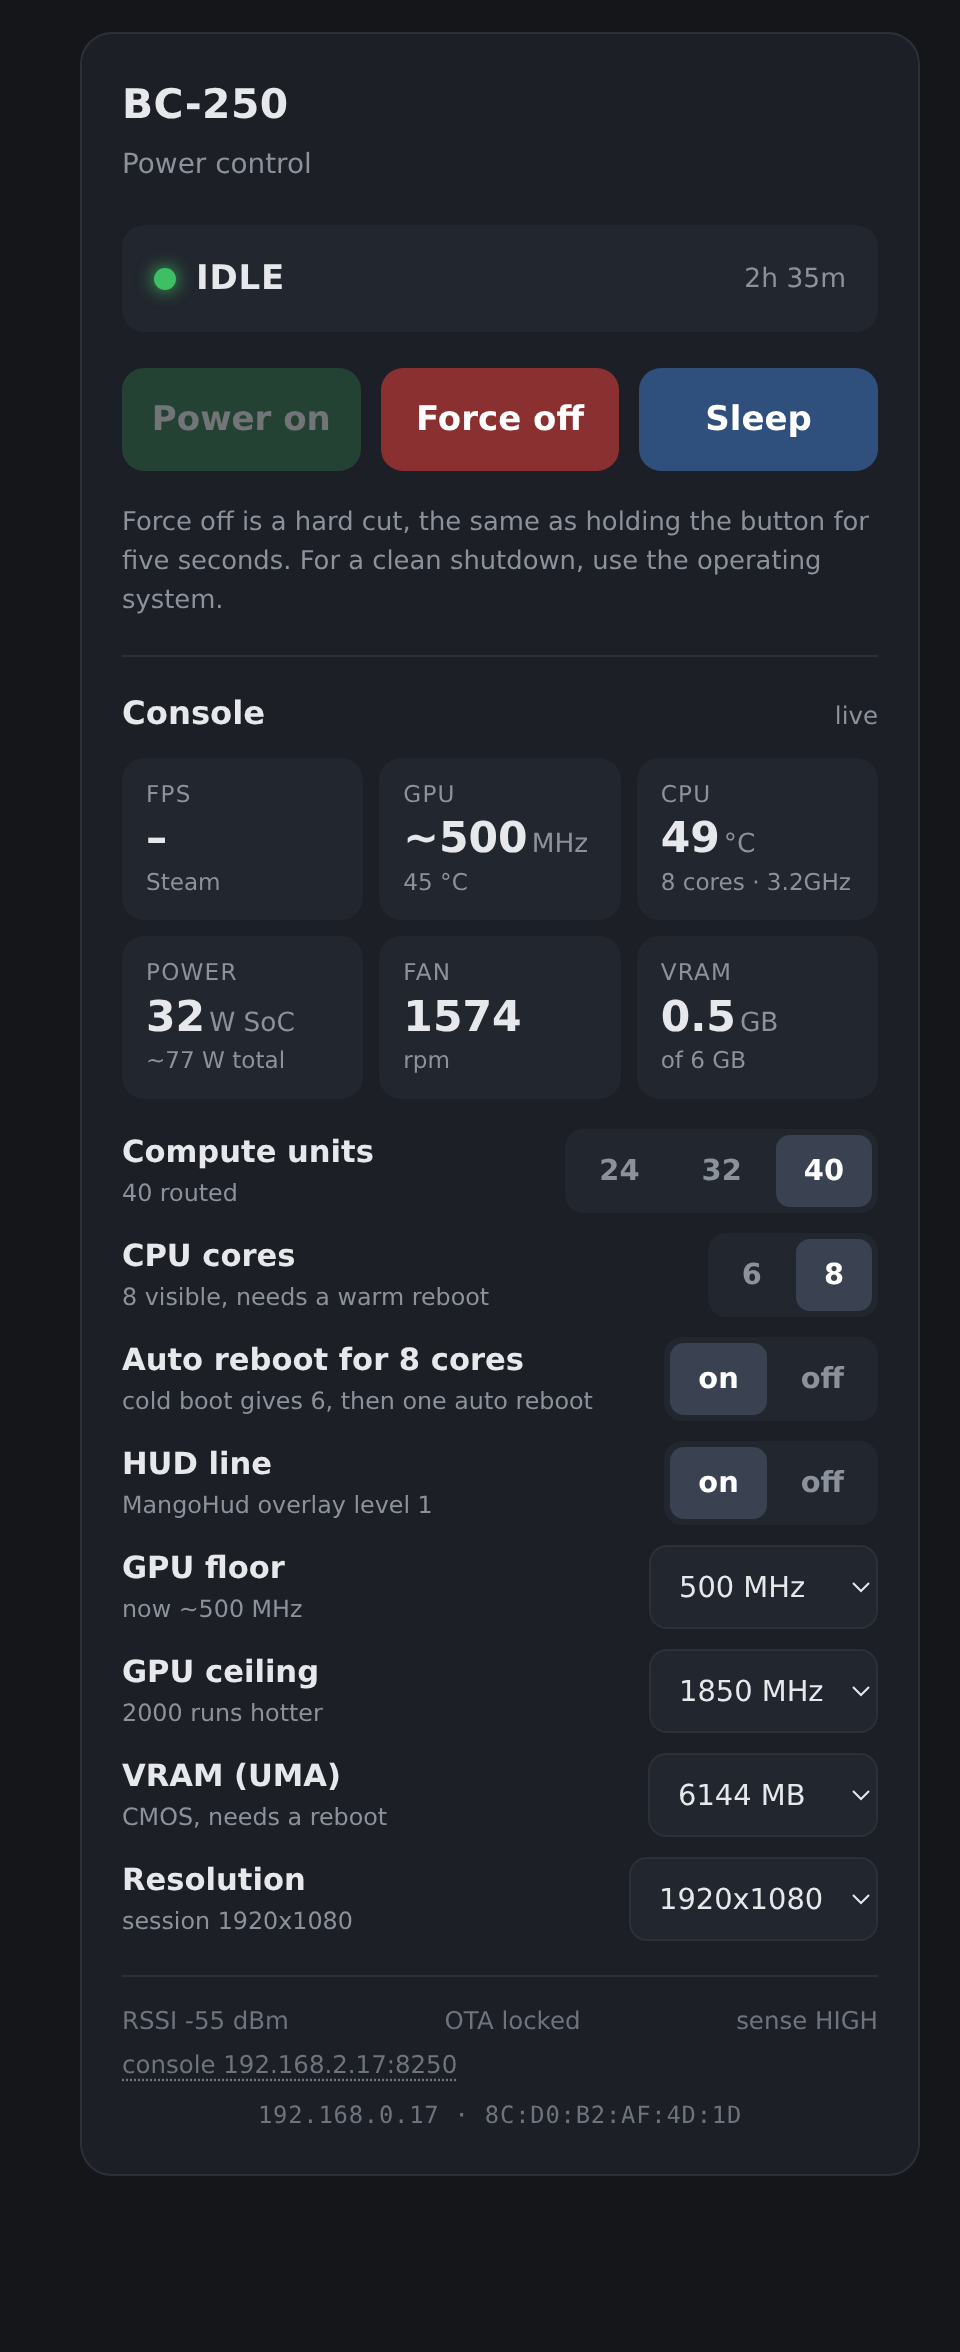
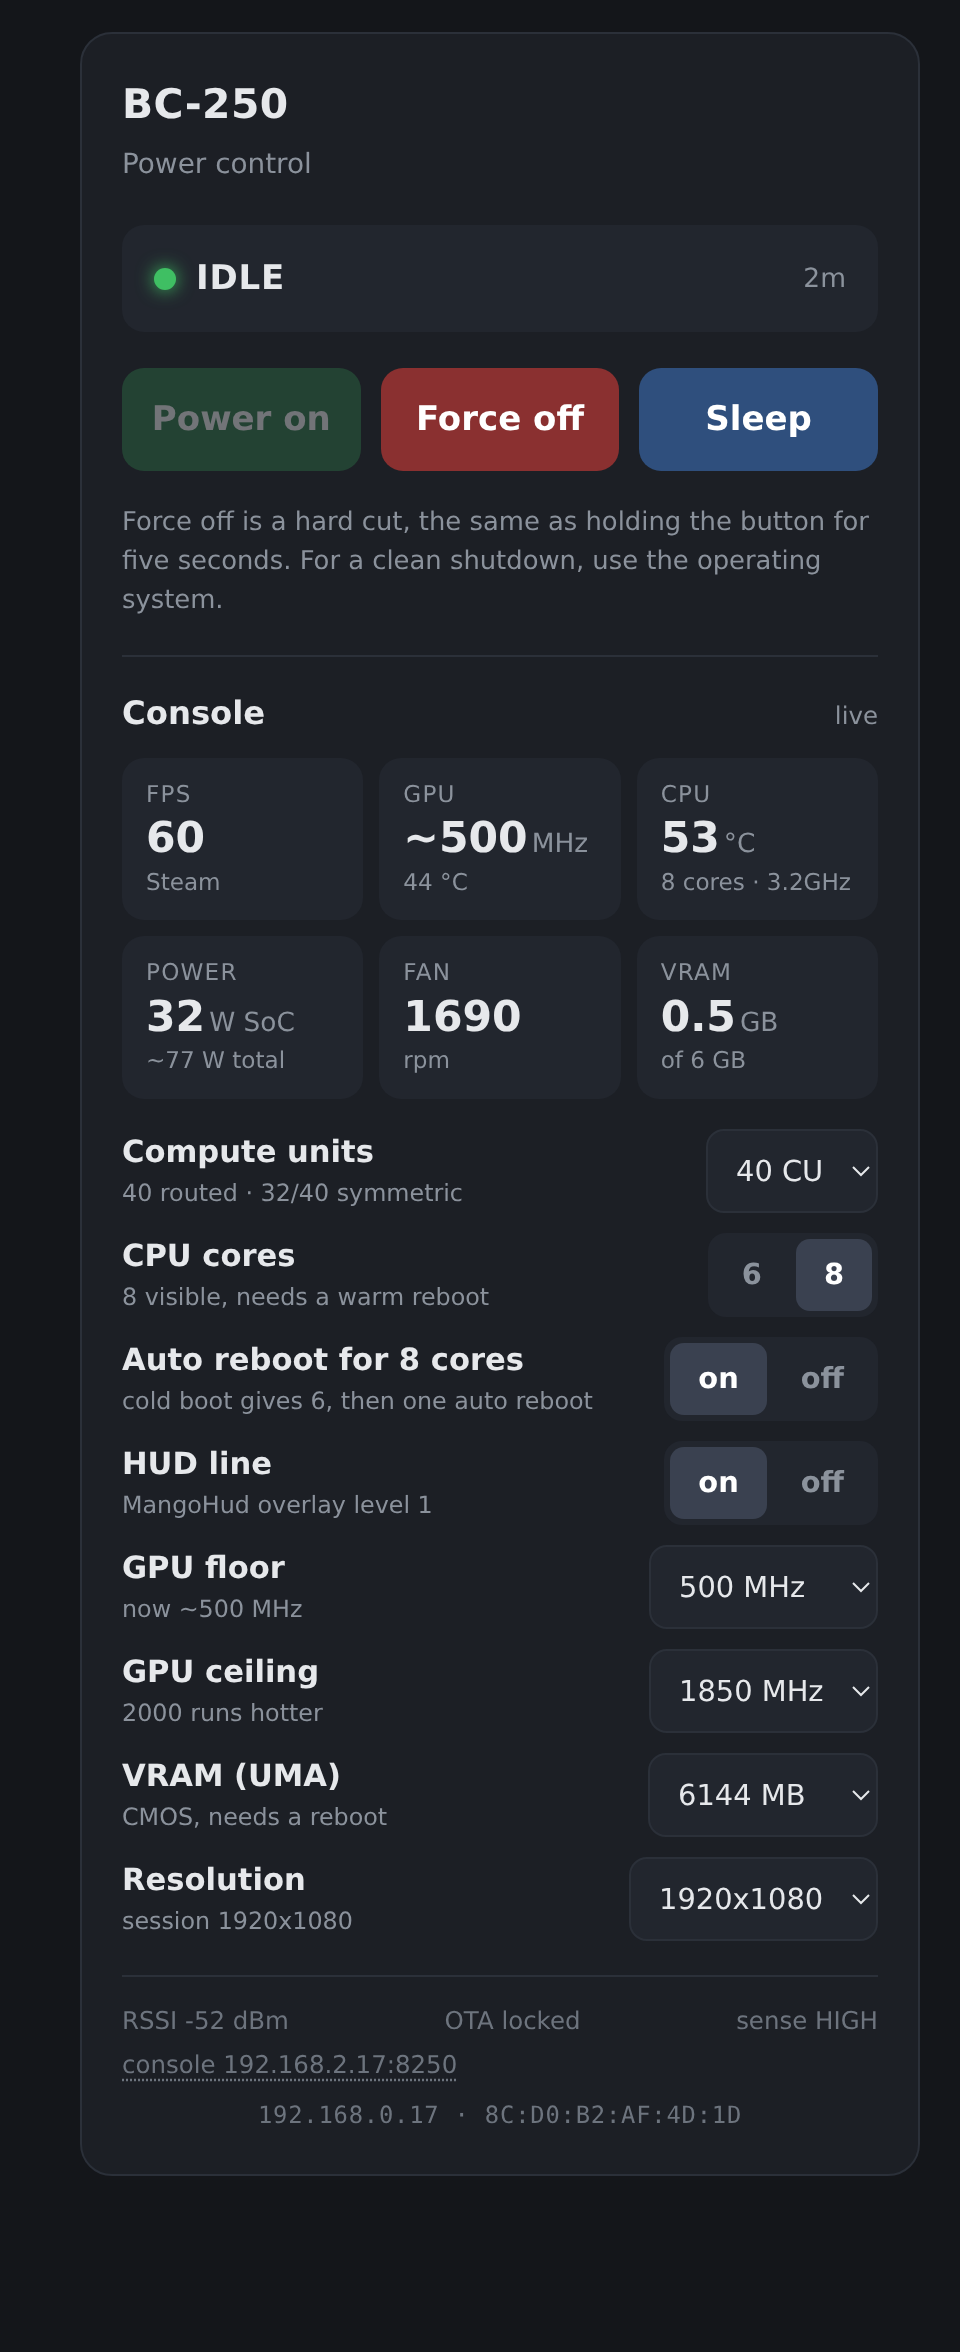
CU: every even count from 24 to 40, filled one shader row at a time
bc250-tune 1.3.0: CU accepts 24, 26, ... 40. Extra WGPs (two CUs each) are enabled in a fixed
order, WGP3 on each of the four shader rows then WGP4 on each, so 32 and 40 are symmetric and the
other steps leave the rows one WGP apart: a ladder for finding what a board tolerates. Dropdowns
in the Decky plugin (24 (stock) ... 40 (all WGPs)) and on the ESP32 page; the API accepts even
24-40. Verified live 26/30/38/40 against the manager's routing table.

diff --git a/decky-bc250-tune/decky-plugin/dist/index.js b/decky-bc250-tune/decky-plugin/dist/index.js
@@ -148,7 +148,7 @@ function Content() {
         pending.push("restart gaming session (resolution)");
     if (st.pending.cold_boot)
         pending.push("cold boot (power off) to return to 6 cores");
-    return (SP_JSX.jsxs(SP_JSX.Fragment, { children: [SP_JSX.jsxs(DFL.PanelSection, { title: "Live", children: [SP_JSX.jsx(DFL.PanelSectionRow, { children: SP_JSX.jsxs(DFL.Field, { label: "GPU", focusable: true, children: [st.gpu.cur_mhz_estimated ? "~" : "", st.gpu.cur_mhz, " MHz \u00B7 ", st.gpu.temp, "\u00B0C \u00B7 ", st.cu.live, " CU"] }) }), SP_JSX.jsx(DFL.PanelSectionRow, { children: SP_JSX.jsxs(DFL.Field, { label: "CPU", focusable: true, children: [st.cores.visible, " cores \u00B7 ", st.power.cpu_temp, "\u00B0C"] }) }), SP_JSX.jsx(DFL.PanelSectionRow, { children: SP_JSX.jsxs(DFL.Field, { label: "Power", focusable: true, children: ["SoC ", st.power.soc_w, " W \u00B7 total ~", st.power.total_w, " W"] }) }), SP_JSX.jsx(DFL.PanelSectionRow, { children: SP_JSX.jsxs(DFL.Field, { label: "VRAM", focusable: true, children: [st.uma.live_mb, " MB", st.res.session ? ` · ${st.res.session}` : ""] }) }), pending.map((p) => (SP_JSX.jsx(DFL.PanelSectionRow, { children: SP_JSX.jsx(DFL.Field, { label: "Pending", focusable: true, children: p }) }, p)))] }), SP_JSX.jsxs(DFL.PanelSection, { title: "GPU", children: [SP_JSX.jsx(DFL.PanelSectionRow, { children: SP_JSX.jsx(DFL.DropdownItem, { label: "Compute units", description: "Live. 32 = one extra WGP per shader row, a middle step if 40 misbehaves. 40: +~30 W, ~+5 % in games, 1.6x compute", rgOptions: [opt(24, "24 (stock)"), opt(32, "32"), opt(40, "40 (all WGPs)")], selectedOption: st.cu.config, disabled: busy, onChange: (o) => apply("cu", String(o.data)) }) }), SP_JSX.jsx(DFL.PanelSectionRow, { children: SP_JSX.jsx(DFL.DropdownItem, { label: "Max clock", description: "Governor ceiling (live)", rgOptions: [opt(1500, "1500 MHz"), opt(1700, "1700 MHz"), opt(1850, "1850 MHz (default)"), opt(2000, "2000 MHz (hot)")], selectedOption: st.gpu.config_max, disabled: busy, onChange: (o) => apply("gpu-max", String(o.data)) }) }), SP_JSX.jsx(DFL.PanelSectionRow, { children: SP_JSX.jsx(DFL.DropdownItem, { label: "Idle clock", description: "Governor floor (live). 500 saves ~10 W at idle", rgOptions: [opt(500, "500 MHz"), opt(1000, "1000 MHz")], selectedOption: st.gpu.config_min, disabled: busy, onChange: (o) => apply("gpu-min", String(o.data)) }) })] }), SP_JSX.jsxs(DFL.PanelSection, { title: "CPU", children: [SP_JSX.jsx(DFL.PanelSectionRow, { children: SP_JSX.jsx(DFL.ToggleField, { label: "8 cores", description: "SMU core unlock. Needs a warm reboot; a cold boot (power off) reverts to 6", checked: st.cores.config === 8, disabled: busy, onChange: (v) => apply("cores", v ? "8" : "6") }) }), SP_JSX.jsx(DFL.PanelSectionRow, { children: SP_JSX.jsx(DFL.ToggleField, { label: "Auto warm reboot after power-on", description: "A cold boot always comes up with 6 cores; with this on, the boot service reboots once by itself (adds ~40 s)", checked: st.cores.auto_reboot === "on", disabled: busy, onChange: (v) => apply("cores-auto-reboot", v ? "on" : "off") }) }), SP_JSX.jsx(DFL.PanelSectionRow, { children: SP_JSX.jsx(DFL.ButtonItem, { layout: "below", disabled: busy, onClick: () => runAction("reboot", warmReboot), children: "Warm reboot now" }) })] }), SP_JSX.jsx(DFL.PanelSection, { title: "Memory", children: SP_JSX.jsx(DFL.PanelSectionRow, { children: SP_JSX.jsx(DFL.DropdownItem, { label: "VRAM (UMA split)", description: "Written to CMOS, applies at next reboot. Rest of the 16 GB is system RAM", rgOptions: [512, 1024, 2048, 3072, 4096, 6144, 8192, 10240, 12288].map((m) => opt(m, `${m} MB`)), selectedOption: st.uma.config, disabled: busy, onChange: (o) => apply("uma", String(o.data)) }) }) }), SP_JSX.jsxs(DFL.PanelSection, { title: "Display & HUD", children: [SP_JSX.jsx(DFL.PanelSectionRow, { children: SP_JSX.jsx(DFL.ToggleField, { label: "Custom HUD line", description: "Installs the one-line MangoHud layout as Performance Overlay level 1", checked: st.hud.config === "on", disabled: busy, onChange: (v) => apply("hud", v ? "on" : "off") }) }), SP_JSX.jsx(DFL.PanelSectionRow, { children: SP_JSX.jsx(DFL.DropdownItem, { label: "Gaming Mode resolution", description: "Applies when the gaming session restarts", rgOptions: [opt("1920x1080", "1080p"), opt("2560x1440", "1440p"), opt("3840x2160", "4K"), opt("native", "native")], selectedOption: st.res.config, disabled: busy, onChange: (o) => apply("res", String(o.data)) }) }), SP_JSX.jsx(DFL.PanelSectionRow, { children: SP_JSX.jsx(DFL.ButtonItem, { layout: "below", disabled: busy, onClick: () => runAction("session restart", restartSession), children: "Restart gaming session (closes game)" }) })] })] }));
+    return (SP_JSX.jsxs(SP_JSX.Fragment, { children: [SP_JSX.jsxs(DFL.PanelSection, { title: "Live", children: [SP_JSX.jsx(DFL.PanelSectionRow, { children: SP_JSX.jsxs(DFL.Field, { label: "GPU", focusable: true, children: [st.gpu.cur_mhz_estimated ? "~" : "", st.gpu.cur_mhz, " MHz \u00B7 ", st.gpu.temp, "\u00B0C \u00B7 ", st.cu.live, " CU"] }) }), SP_JSX.jsx(DFL.PanelSectionRow, { children: SP_JSX.jsxs(DFL.Field, { label: "CPU", focusable: true, children: [st.cores.visible, " cores \u00B7 ", st.power.cpu_temp, "\u00B0C"] }) }), SP_JSX.jsx(DFL.PanelSectionRow, { children: SP_JSX.jsxs(DFL.Field, { label: "Power", focusable: true, children: ["SoC ", st.power.soc_w, " W \u00B7 total ~", st.power.total_w, " W"] }) }), SP_JSX.jsx(DFL.PanelSectionRow, { children: SP_JSX.jsxs(DFL.Field, { label: "VRAM", focusable: true, children: [st.uma.live_mb, " MB", st.res.session ? ` · ${st.res.session}` : ""] }) }), pending.map((p) => (SP_JSX.jsx(DFL.PanelSectionRow, { children: SP_JSX.jsx(DFL.Field, { label: "Pending", focusable: true, children: p }) }, p)))] }), SP_JSX.jsxs(DFL.PanelSection, { title: "GPU", children: [SP_JSX.jsx(DFL.PanelSectionRow, { children: SP_JSX.jsx(DFL.DropdownItem, { label: "Compute units", description: "Live, 2 per WGP. 32 and 40 are symmetric across the shader rows; step down until stable. 40: +~30 W, ~+5 % in games, 1.6x compute", rgOptions: [24, 26, 28, 30, 32, 34, 36, 38, 40].map((n) => opt(n, n === 24 ? "24 (stock)" : n === 32 ? "32 (symmetric)" : n === 40 ? "40 (all WGPs)" : String(n))), selectedOption: st.cu.config, disabled: busy, onChange: (o) => apply("cu", String(o.data)) }) }), SP_JSX.jsx(DFL.PanelSectionRow, { children: SP_JSX.jsx(DFL.DropdownItem, { label: "Max clock", description: "Governor ceiling (live)", rgOptions: [opt(1500, "1500 MHz"), opt(1700, "1700 MHz"), opt(1850, "1850 MHz (default)"), opt(2000, "2000 MHz (hot)")], selectedOption: st.gpu.config_max, disabled: busy, onChange: (o) => apply("gpu-max", String(o.data)) }) }), SP_JSX.jsx(DFL.PanelSectionRow, { children: SP_JSX.jsx(DFL.DropdownItem, { label: "Idle clock", description: "Governor floor (live). 500 saves ~10 W at idle", rgOptions: [opt(500, "500 MHz"), opt(1000, "1000 MHz")], selectedOption: st.gpu.config_min, disabled: busy, onChange: (o) => apply("gpu-min", String(o.data)) }) })] }), SP_JSX.jsxs(DFL.PanelSection, { title: "CPU", children: [SP_JSX.jsx(DFL.PanelSectionRow, { children: SP_JSX.jsx(DFL.ToggleField, { label: "8 cores", description: "SMU core unlock. Needs a warm reboot; a cold boot (power off) reverts to 6", checked: st.cores.config === 8, disabled: busy, onChange: (v) => apply("cores", v ? "8" : "6") }) }), SP_JSX.jsx(DFL.PanelSectionRow, { children: SP_JSX.jsx(DFL.ToggleField, { label: "Auto warm reboot after power-on", description: "A cold boot always comes up with 6 cores; with this on, the boot service reboots once by itself (adds ~40 s)", checked: st.cores.auto_reboot === "on", disabled: busy, onChange: (v) => apply("cores-auto-reboot", v ? "on" : "off") }) }), SP_JSX.jsx(DFL.PanelSectionRow, { children: SP_JSX.jsx(DFL.ButtonItem, { layout: "below", disabled: busy, onClick: () => runAction("reboot", warmReboot), children: "Warm reboot now" }) })] }), SP_JSX.jsx(DFL.PanelSection, { title: "Memory", children: SP_JSX.jsx(DFL.PanelSectionRow, { children: SP_JSX.jsx(DFL.DropdownItem, { label: "VRAM (UMA split)", description: "Written to CMOS, applies at next reboot. Rest of the 16 GB is system RAM", rgOptions: [512, 1024, 2048, 3072, 4096, 6144, 8192, 10240, 12288].map((m) => opt(m, `${m} MB`)), selectedOption: st.uma.config, disabled: busy, onChange: (o) => apply("uma", String(o.data)) }) }) }), SP_JSX.jsxs(DFL.PanelSection, { title: "Display & HUD", children: [SP_JSX.jsx(DFL.PanelSectionRow, { children: SP_JSX.jsx(DFL.ToggleField, { label: "Custom HUD line", description: "Installs the one-line MangoHud layout as Performance Overlay level 1", checked: st.hud.config === "on", disabled: busy, onChange: (v) => apply("hud", v ? "on" : "off") }) }), SP_JSX.jsx(DFL.PanelSectionRow, { children: SP_JSX.jsx(DFL.DropdownItem, { label: "Gaming Mode resolution", description: "Applies when the gaming session restarts", rgOptions: [opt("1920x1080", "1080p"), opt("2560x1440", "1440p"), opt("3840x2160", "4K"), opt("native", "native")], selectedOption: st.res.config, disabled: busy, onChange: (o) => apply("res", String(o.data)) }) }), SP_JSX.jsx(DFL.PanelSectionRow, { children: SP_JSX.jsx(DFL.ButtonItem, { layout: "below", disabled: busy, onClick: () => runAction("session restart", restartSession), children: "Restart gaming session (closes game)" }) })] })] }));
 }
 var index = definePlugin(() => ({
     name: "BC-250 Tune",

diff --git a/decky-bc250-tune/decky-plugin/src/index.tsx b/decky-bc250-tune/decky-plugin/src/index.tsx
@@ -114,8 +114,8 @@ function Content() {
         <PanelSectionRow>
           <DropdownItem
             label="Compute units"
-            description="Live. 32 = one extra WGP per shader row, a middle step if 40 misbehaves. 40: +~30 W, ~+5 % in games, 1.6x compute"
-            rgOptions={[opt(24, "24 (stock)"), opt(32, "32"), opt(40, "40 (all WGPs)")]}
+            description="Live, 2 per WGP. 32 and 40 are symmetric across the shader rows; step down until stable. 40: +~30 W, ~+5 % in games, 1.6x compute"
+            rgOptions={[24, 26, 28, 30, 32, 34, 36, 38, 40].map((n) => opt(n, n === 24 ? "24 (stock)" : n === 32 ? "32 (symmetric)" : n === 40 ? "40 (all WGPs)" : String(n)))}
             selectedOption={st.cu.config}
             disabled={busy}
             onChange={(o) => apply("cu", String(o.data))}

diff --git a/decky-bc250-tune/README.md b/decky-bc250-tune/README.md
@@ -25,7 +25,7 @@ bc250-tune 1.0.0 — config: /etc/bc250-tune/config   user: deck
 |-----|--------|--------------|--------------|
 | `UMA_SIZE` | MB, ≥ 256, 16 MB steps (512 … 12288) | VRAM / system-RAM split of the 16 GB GDDR6. Written into battery-backed CMOS with [bc250memcfg](https://github.com/fanoush/bc250_memcfg) (built from source at install). Survives reinstalls and BIOS flashes; only a CMOS clear resets it. | next reboot |
 | `GPU_MIN` / `GPU_MAX` | MHz | `[frequency-range]` of the image's `cyan-skillfish-governor-smu`. 500 MHz floor saves ~10 W at idle; 1850 is the image default ceiling; 2000 is hotter (~140 W). | live |
-| `CU` | `24` / `32` / `40` | Routes WGPs through the image's `bc250-cu-live-manager`: the stock 24 CUs, 32 (one extra WGP on each of the four shader rows, a balanced middle step for boards that misbehave at 40), or all 20 WGPs (40 CUs). Compute scales ~1.6x; games gain only a few % (they are fill-rate bound). ~+30 W. | live, re-applied at boot |
+| `CU` | `24` … `40`, even | Routes WGPs (two CUs each) through the image's `bc250-cu-live-manager`. 24 is stock; the extra WGPs are enabled one shader row at a time, so 32 and 40 are symmetric and the other steps leave the four rows one WGP apart (fine, just uneven). A ladder for finding what a given board tolerates. At 40 compute scales ~1.6x, games gain only a few % (they are fill-rate bound), ~+30 W. | live, re-applied at boot |
 | `CORES` | `6` / `8` | Enables the two dormant Zen 2 cores by sending SMU message `0x98` (core-mask register `0x0115A870`), the technique from [GabriWar/bc250-core-cu-unlock](https://github.com/GabriWar/bc250-core-cu-unlock). Nothing is flashed. | **warm reboot** to appear; a **cold boot** (power removed) always reverts to 6 |
 | `CORES_AUTO_REBOOT` | `on` / `off` | The SMU core mask does not survive a power-off, so a cold boot with `CORES=8` always comes up with 6 cores until a warm reboot. With `on`, the boot service does that reboot itself, once (a persistent stamp prevents a loop). Adds ~40 s to a power-on. | next cold boot |
 | `HUD` | `on` / `off` | Installs a one-line MangoHud layout as **Performance Overlay level 1** in Gaming Mode (and as the Desktop-Mode `MangoHud.conf`). | next game launch |
@@ -85,7 +85,7 @@ LAN. The ESP32 power page uses it for its Console panel.
 
 ```bash
 sudo bc250-tune menu                       # whiptail TUI (works over ssh or in a Desktop-Mode terminal)
-sudo bc250-tune set cu 40                  # keys: uma gpu-min gpu-max cu cores cores-auto-reboot hud res
+sudo bc250-tune set cu 32                  # keys: uma gpu-min gpu-max cu cores cores-auto-reboot hud res
 sudo bc250-tune set cores 8 uma 8192       # several at once; prints what still needs a reboot
 sudo bc250-tune apply                      # re-apply /etc/bc250-tune/config (idempotent)
 sudo bc250-tune status [--json]            # everything, incl. pending reboot / session restart

diff --git a/README.md b/README.md
@@ -257,14 +257,14 @@ from voltage, see §4.2), 8 cores at 51 °C, 35 W package power, 6144 MB VRAM at
 > years, others artifact, crash or fail to launch games at 40 CU, or hang after the core unlock. Nothing
 > in this guide can predict which you have. Enable one unlock at a time, test with demanding games and a
 > stress run while watching temperatures in the HUD, and only keep what stays stable. If 40 CUs
-> misbehave, try `CU=32` before giving up on the unlock. Both unlocks
+> misbehave, step down (`CU=36`, `32`, …) until it is stable rather than giving up on the unlock. Both unlocks
 > revert easily: `CU=24` is live, and a cold boot (power off) restores 6 cores.
 
 | Switch | What it does | Applies |
 |--------|--------------|---------|
 | `UMA_SIZE` | VRAM / system-RAM split of the 16 GB, written to CMOS with [bc250memcfg](https://github.com/fanoush/bc250_memcfg) (built from source at install). Survives reinstalls; only a CMOS clear resets it. | next reboot |
 | `GPU_MIN` / `GPU_MAX` | The governor's frequency range. 500 MHz floor saves ~10 W at idle; 1850 MHz is the image default ceiling. | live |
-| `CU` 24 / 32 / 40 | Routes WGPs through `bc250-cu-live-manager`: the stock 24, 32 (one extra WGP on each of the four shader rows, a balanced middle step for a board that misbehaves at 40) or all 40. At 40: compute ~1.6x, games only a few % (fill-rate bound), ~+30 W. | live, re-applied at boot |
+| `CU` 24 … 40 | Routes WGPs (two CUs each) through `bc250-cu-live-manager`, any even count from the stock 24 to all 40. Extra WGPs go on one shader row at a time, so 32 and 40 are symmetric and the other steps leave the rows one WGP apart: a ladder for finding what a board tolerates. At 40: compute ~1.6x, games only a few % (fill-rate bound), ~+30 W. | live, re-applied at boot |
 | `CORES` 6 / 8 | Enables the two dormant cores with an SMU message (technique from [GabriWar/bc250-core-cu-unlock](https://github.com/GabriWar/bc250-core-cu-unlock)). Nothing is flashed. | warm reboot; a cold boot reverts |
 | `CORES_AUTO_REBOOT` | The core mask does not survive a power-off, so a cold boot with `CORES=8` comes up with 6 cores until a warm reboot. `on` makes the boot service do that reboot itself, once (a persistent stamp rules out a loop). Adds ~40 s to a power-on. | next cold boot |
 | `HUD` | One-line MangoHud layout as Performance Overlay level 1 (files in [`decky-bc250-tune/mangohud/`](decky-bc250-tune/mangohud/)) | next game launch |
